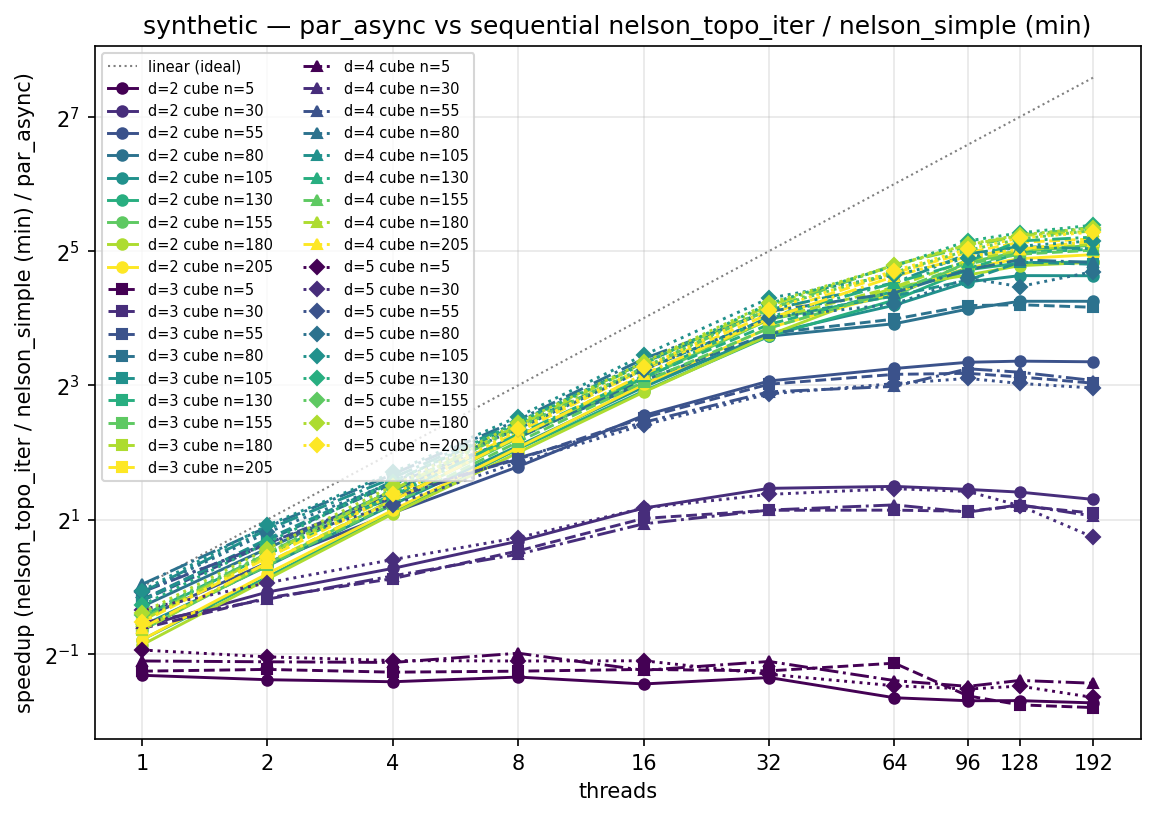
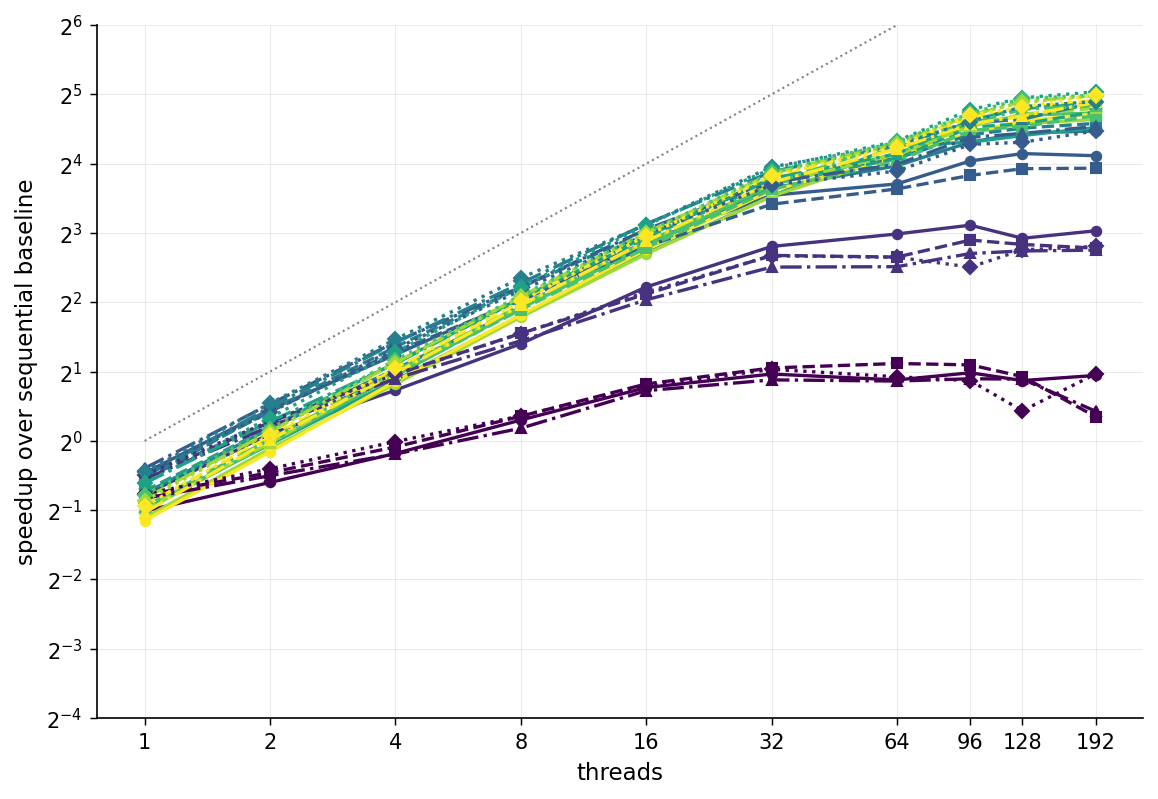
new graphs

Changed region(s): [[0.0, 0.0, 0.9974, 0.9912], [0.9351, 0.5106, 0.9662, 0.5407]]

diff --git a/sections/6-evaluation.tex b/sections/6-evaluation.tex
@@ -42,7 +42,7 @@ geometric mean of the runtime across the 5 timed runs.
 \begin{figure*}[!tb]
   \centering  \begin{subfigure}[t]{0.48\linewidth}
     \centering
-    \includegraphics[width=\linewidth]{figs/random_par_close_speedup_vs_nelson.png}
+    \includegraphics[width=\linewidth]{figs/random_par_parents_speedup_vs_nelson.png}
     \caption{Speedup of \parentalgo compared to sequential baseline.}
     \label{fig:random:parents}
   \end{subfigure}\hfill
@@ -149,7 +149,7 @@ update the table to rename things}
   \centering
   \begin{subfigure}[t]{0.48\linewidth}
     \centering
-    \includegraphics[width=\linewidth]{figs/cube_decomp_par_close_speedup_vs_nelson.png}
+    \includegraphics[width=\linewidth]{figs/cube_decomp_par_parents_speedup_vs_nelson.png}
     \caption{Speedup of \parentalgo compared to sequential baseline.}
     \label{fig:synthetic:parents}
   \end{subfigure}\hfill
@@ -274,7 +274,7 @@ sequential congruence closure time.
   
   \begin{subfigure}[t]{0.48\linewidth}
     \centering
-    \includegraphics[width=\linewidth]{figs/gates_par_close_speedup.png}
+    \includegraphics[width=\linewidth]{figs/gates_par_parents_speedup.png}
     \caption{Speedup of \parentalgo compared to sequential baseline.}
     \label{fig:circuit:parent}
   \end{subfigure}\hfill
@@ -296,7 +296,7 @@ paper~\cite{clausal-cc}.
 
 \begin{figure}[H]
   \centering
-  \includegraphics[width=\linewidth]{figs/gates_speedup_vs_min_dirty_fraction.png}
+  \includegraphics[width=\linewidth]{figs_old/gates_speedup_vs_min_dirty_fraction.png}
   \caption{Speedup of \filteralgo compared to sequential baseline vs. smallest dirty fraction 
   across rounds. The dirty fraction of a round is the number of dirty terms in that round divided 
   by the total number of equivalence classes in that round. We observe that benchmarks with a smaller 
